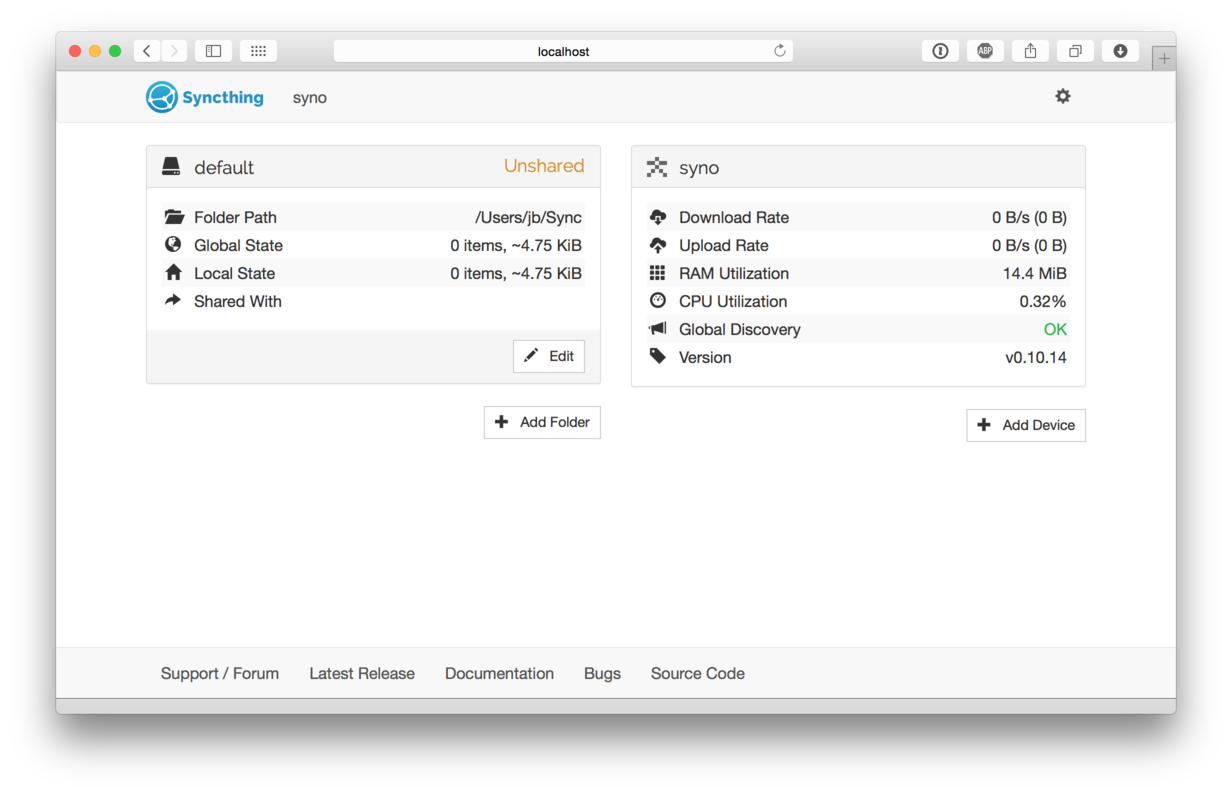
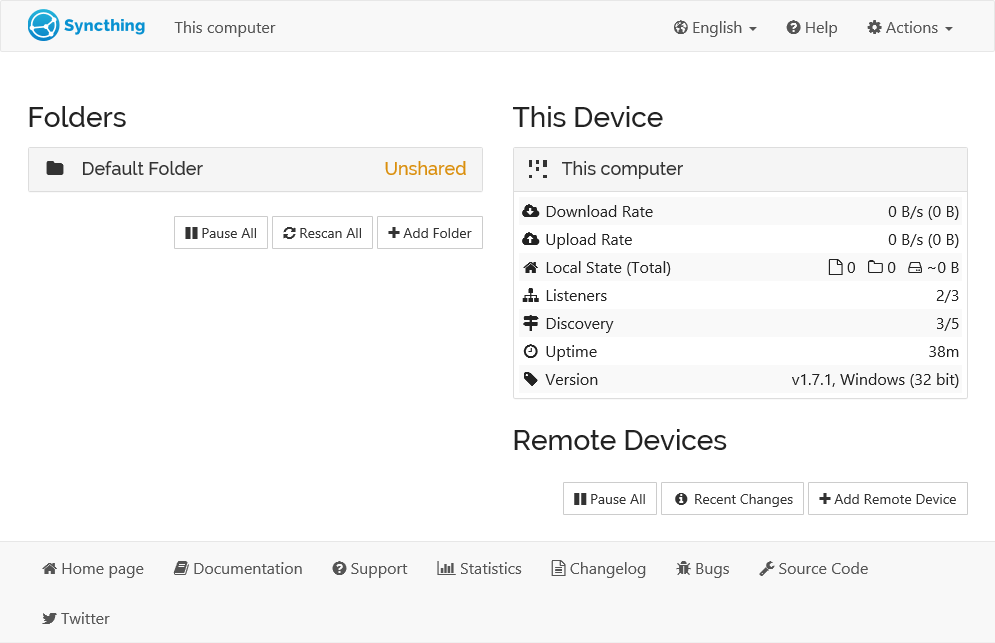
intro/getting-started: Update to match Syncthing v1.7.1
Update the Getting Started guide to match the look and terminology used
in the current version of Syncthing (which is v1.7.1 as of 2020-08-03).

The update consists of the following.

1) Replace the old screenshots with their updated counterparts.
2) Replace outdated terminology, e.g. use "Default Folder" instead of
   "default"
3) Use OS-agnostic terms when possible, e.g. "command line" instead of
  "terminal".
4) Use the current command line output in the example.

diff --git a/intro/getting-started.rst b/intro/getting-started.rst
@@ -43,32 +43,37 @@ Grab the `latest release`_ of Syncthing for your operating system and unpack
 it (if you use Debian/Ubuntu you may want to use `Debian repository`_). There will be a binary called ``syncthing`` (or ``syncthing.exe`` on
 Windows). Start this in whatever way you are most comfortable with;
 double-clicking should work in any graphical environment, but I'll use the
-terminal to better illustrate what happens. At first start Syncthing will
+command line to better illustrate what happens. At first start Syncthing will
 generate a configuration file, some keys and then start the admin GUI in your
-browser. Something like the following will be printed in the terminal::
+browser. Something like the following will be printed in the command line::
 
-    $ syncthing
-    [monitor] 15:56:58 INFO: Starting syncthing
-    15:56:58 INFO: Generating RSA key and certificate for syncthing...
-    [ANSMX] 15:57:05 INFO: syncthing v0.10.14 (go1.4 darwin-amd64 default) jb@syno...
-    [ANSMX] 15:57:05 INFO: My ID: ANSMXYD-E6CF3JC-TCVPYGF-GXJPHSJ-MKUXBUQ-ZSPOKXH-...
-    [ANSMX] 15:57:05 INFO: No config file; starting with empty defaults
-    [ANSMX] 15:57:05 INFO: Edit gs1/config.xml to taste or use the GUI
-    [ANSMX] 15:57:05 INFO: Starting web GUI on http://127.0.0.1:8384/
-    [ANSMX] 15:57:05 INFO: Loading HTTPS certificate: open gs1/https-cert.pem: no ...
-    [ANSMX] 15:57:05 INFO: Creating new HTTPS certificate
-    [ANSMX] 15:57:05 INFO: Generating RSA key and certificate for syno...
-    [ANSMX] 15:57:07 INFO: Starting UPnP discovery...
-    [ANSMX] 15:57:13 INFO: UPnP discovery complete (found 0 devices).
-    [ANSMX] 15:57:13 INFO: Starting local discovery announcements
-    [ANSMX] 15:57:13 INFO: Local discovery over IPv4 unavailable
-    [ANSMX] 15:57:13 INFO: Starting global discovery announcements
-    [ANSMX] 15:57:13 OK: Ready to synchronize default (read-write)
-    [ANSMX] 15:57:13 INFO: Device ANSMXYD-E6CF3JC-TCVPYGF-GXJPHSJ-MKUXBUQ-ZSPOKXH-...
-    [ANSMX] 15:57:13 INFO: Completed initial scan (rw) of folder default
+    > syncthing
+    [monitor] 22:56:32 INFO: Log output saved to file "C:\Users\User\AppData\Local\Syncthing\syncthing.log"
+    [monitor] 22:56:32 INFO: Default folder created and/or linked to new config
+    [start] 22:56:32 INFO: syncthing v1.7.1 "Fermium Flea" (go1.14.4 windows-386) teamcity@build.syncthing.net 2020-07-11 18:17:41 UTC
+    [start] 22:56:32 INFO: Default folder created and/or linked to new config
+    [start] 22:56:32 INFO: Default config saved. Edit C:\Users\User\AppData\Local\Syncthing\config.xml to taste (with Syncthing stopped) or use the GUI
+    [6FOKX] 22:56:33 INFO: My ID: 6FOKXKK-SKUBWFW-GSKX6IQ-ZC4SYUZ-5IEVZKE-TC42AAX-HW7IBW4-GAZFAQ7
+    [6FOKX] 22:56:34 INFO: Single thread SHA256 performance is 123 MB/s using crypto/sha256 (108 MB/s using minio/sha256-simd).
+    [6FOKX] 22:56:34 INFO: Hashing performance is 106.31 MB/s
+    [6FOKX] 22:56:34 INFO: Overall send rate is unlimited, receive rate is unlimited
+    [6FOKX] 22:56:34 INFO: Using discovery server https://discovery.syncthing.net/v2/?noannounce&id=LYXKCHX-VI3NYZR-ALCJBHF-WMZYSPK-QG6QJA3-MPFYMSO-U56GTUK-NA2MIAW
+    [6FOKX] 22:56:34 INFO: Using discovery server https://discovery-v4.syncthing.net/v2/?nolookup&id=LYXKCHX-VI3NYZR-ALCJBHF-WMZYSPK-QG6QJA3-MPFYMSO-U56GTUK-NA2MIAW
+    [6FOKX] 22:56:34 INFO: Using discovery server https://discovery-v6.syncthing.net/v2/?nolookup&id=LYXKCHX-VI3NYZR-ALCJBHF-WMZYSPK-QG6QJA3-MPFYMSO-U56GTUK-NA2MIAW
+    [6FOKX] 22:56:34 INFO: Ready to synchronize "Default Folder" (default) (sendreceive)
+    [6FOKX] 22:56:34 INFO: QUIC listener ([::]:22000) starting
+    [6FOKX] 22:56:34 INFO: TCP listener ([::]:22000) starting
+    [6FOKX] 22:56:34 INFO: Relay listener (dynamic+https://relays.syncthing.net/endpoint) starting
+    [6FOKX] 22:56:34 INFO: Completed initial scan of sendreceive folder "Default Folder" (default)
+    [6FOKX] 22:56:34 INFO: GUI and API listening on 127.0.0.1:8384
+    [6FOKX] 22:56:34 INFO: Access the GUI via the following URL: http://127.0.0.1:8384/
+    [6FOKX] 22:56:34 INFO: My name is "This computer"
+    [6FOKX] 22:56:45 INFO: quic://0.0.0.0:22000 detected NAT type: Symmetric NAT
+    [6FOKX] 22:56:45 INFO: quic://0.0.0.0:22000 resolved external address quic://125.190.151.7:59296 (via stun.syncthing.net:3478)
+    [6FOKX] 22:56:46 INFO: Detected 0 NAT services
 
 At this point Syncthing will also have set up a folder called
-``default`` for you, in a directory called ``Sync`` in your home
+``Default Folder`` for you, in a directory called ``Sync`` in your home
 directory. You can use this as a starting point, then remove it or add
 more folders later.
 
@@ -84,7 +89,7 @@ The admin GUI starts automatically and remains available on
 .. image:: gs1.png
 
 On the left is the list of "folders", or directories to synchronize. You
-can see the ``default`` folder was created for you, and it's currently
+can see the ``Default Folder`` was created for you, and it's currently
 marked "Unshared" since it's not yet shared with any other device. On
 the right is the list of devices. Currently there is only one device:
 the computer you are running this on.
@@ -94,17 +99,19 @@ must be told about that device. This is accomplished by exchanging
 "device IDs". A device ID is a unique, cryptographically-secure
 identifier that is generated as part of the key generation the first
 time you start Syncthing. It is printed in the log above, and you can
-see it in the web GUI by selecting the "gear menu" (top right) and "Show
-ID".
+see it in the web GUI by selecting "Actions" (top right) and "Show ID".
 
 Two devices will *only* connect and talk to each other if they are both configured with each other's device ID. Since the configuration must be mutual for
 a connection to happen, device IDs don't need to be kept secret. They are essentially part of the public key.
 
-To get your two devices to talk to each other click "Add Device" at the
-bottom right on both, and enter the device ID of the other side. You
-should also select the folder(s) that you want to share. The device name is optional and purely cosmetic. It can be changed later if required.
+To get your two devices to talk to each other click "Add Remote Device"
+at the bottom right on both, and enter the device ID of the other side.
+You should also select the folder(s) that you want to share. The device
+name is optional and purely cosmetic. It can be changed later if
+required.
 
 .. image:: gs2.png
+.. image:: gs3.png
 
 Once you click "Save" the new device will appear on right side of the
 GUI (although disconnected) and then connect to the new device after a minute or so.
